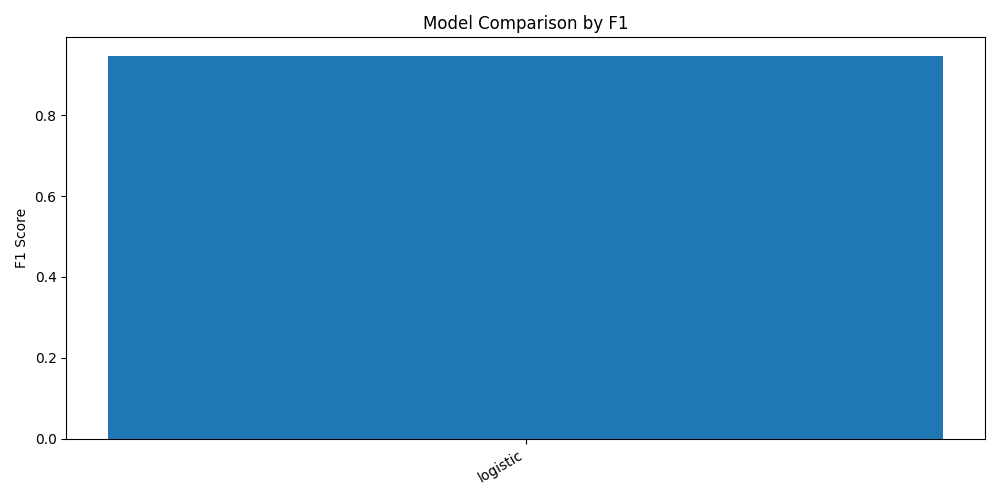
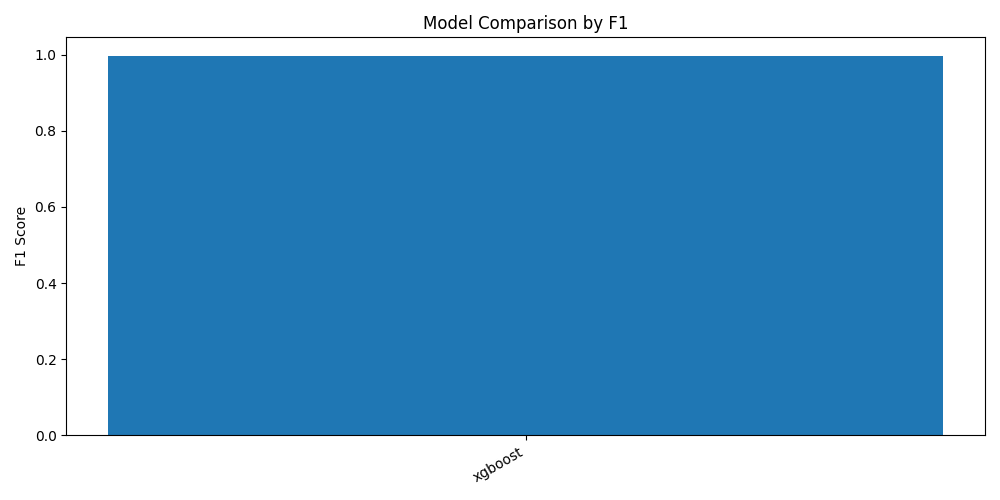
fixes

diff --git a/scripts/evaluate.py b/scripts/evaluate.py
@@ -37,7 +37,7 @@ def main() -> None:
     settings = get_settings()
     root = settings.project_root
 
-    data_path = root / "data/processed/hotel_bookings_processed.csv"
+    data_path = root / "data/processed/hotel_bookings.csv"
     model_path = root / "reports/best_model.pkl"
 
     if not data_path.exists() or not model_path.exists():

diff --git a/src/data/preprocess.py b/src/data/preprocess.py
@@ -49,7 +49,7 @@ def build_preprocessor(X: pd.DataFrame) -> ColumnTransformer:
 
     month_pipeline = Pipeline(
         steps=[
-            ("month", FunctionTransformer(lambda s: s.apply(lambda col: col.dt.month), validate=False)),
+            # ("month", FunctionTransformer(lambda s: s.apply(lambda col: col.dt.month), validate=False)),
             ("imputer", SimpleImputer(strategy="most_frequent")),
         ]
     )